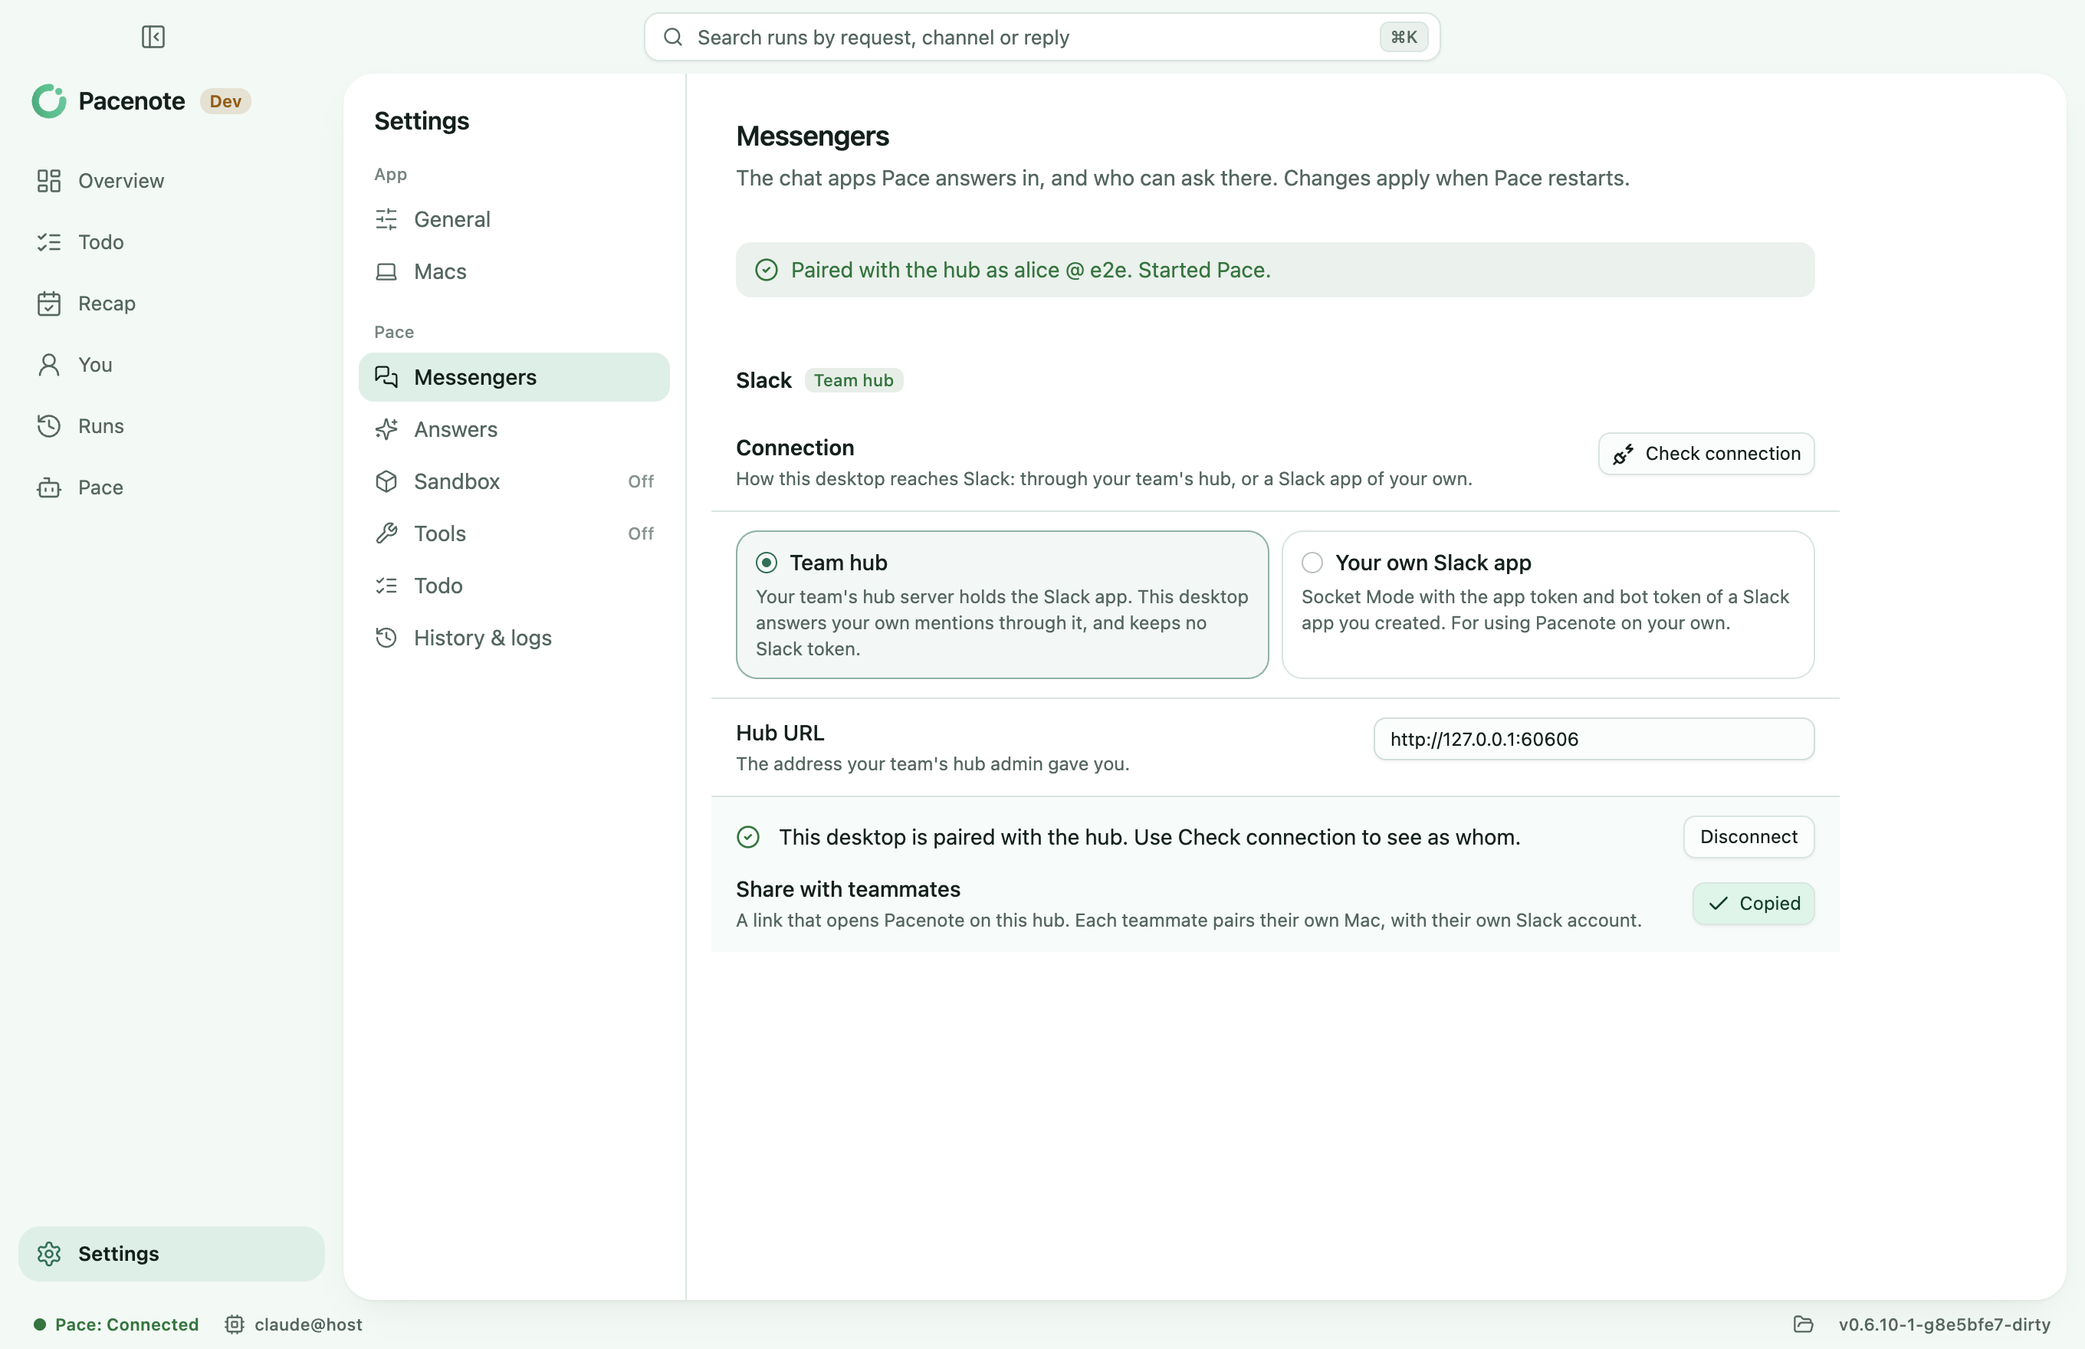
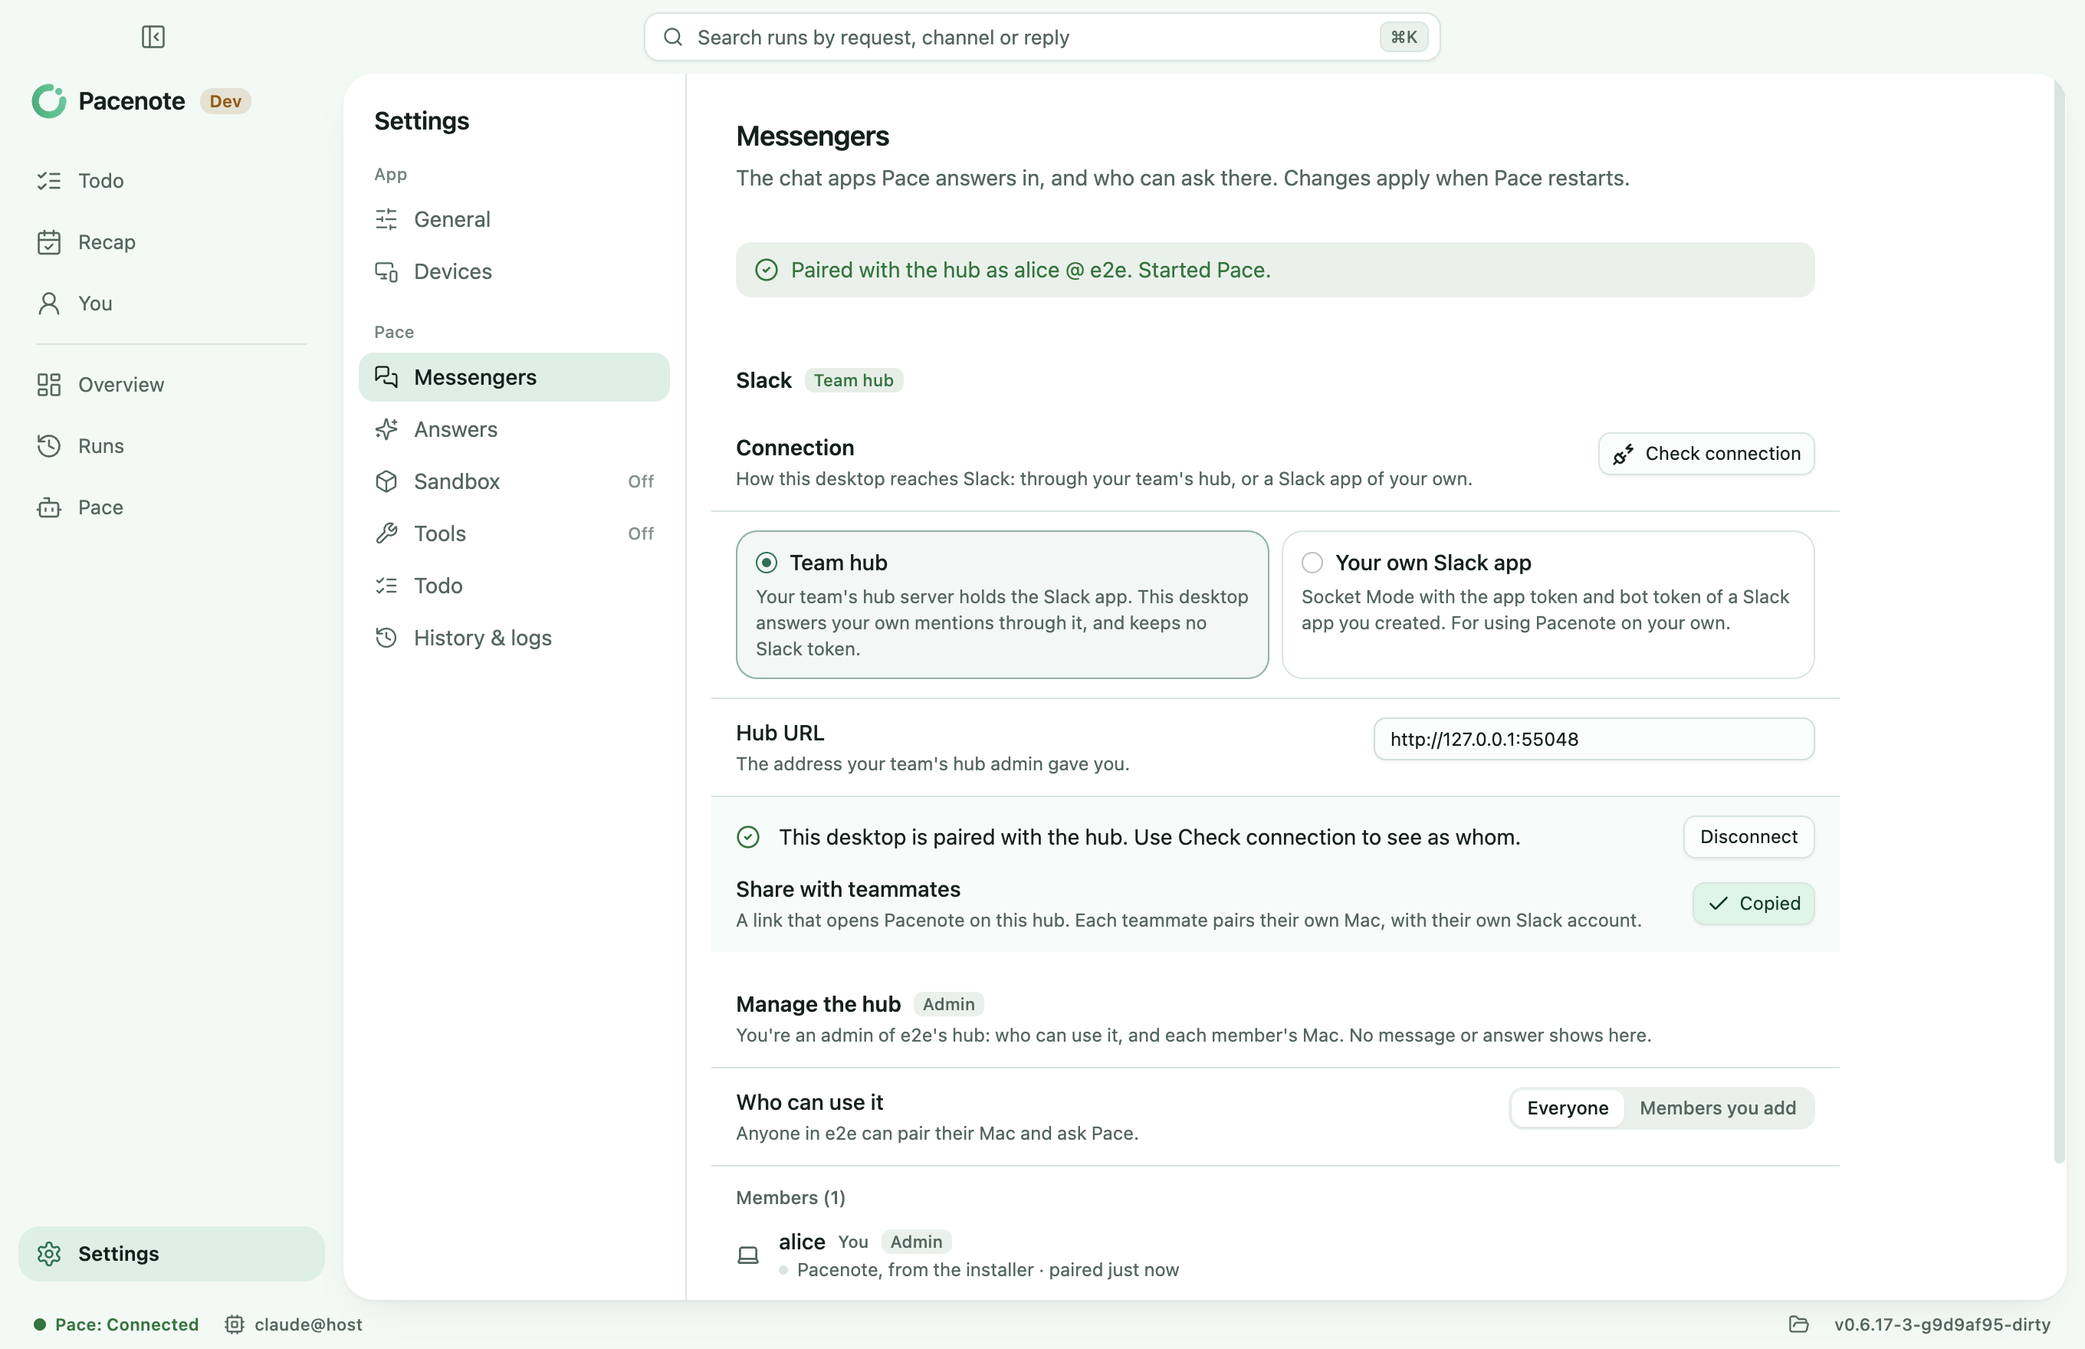
release: v0.6.18 - manage the team hub from Pacenote
- A team hub's admins manage it in Settings > Messengers: who can use it,
  who asks to join, each member's Mac, and who else is an admin
- A paired phone or tablet adds a task to the Mac's Todo, and the phone app
  shows Pace's spinner while it waits on the Mac
- The guide's Messengers and Join pages cover managing a hub and asking to
  join, with a new e2e shot in en and ko; siteShot takes a step that places
  the screen again in each language
- docs/team-hub.md says how to move a hub to a newer release
- The site test moves its news, rail, guide shot and home link expectations
  to v0.6.18

diff --git a/tests/site.test.ts b/tests/site.test.ts
@@ -62,6 +62,7 @@ const SITE = build('site', {
   'v0.6.15': '2026-10-29T07:00:00Z',
   'v0.6.16': '2026-10-30T03:00:00Z',
   'v0.6.17': '2026-11-02T03:00:00Z',
+  'v0.6.18': '2026-11-03T03:00:00Z',
 })
 
 const read = (page: string, site = SITE) =>
@@ -357,9 +358,11 @@ describe('the guide', () => {
       const shots = [
         ...read(`${dir}guide/messengers/`).matchAll(/src="([^"]*shots[^"]*)"/g),
       ].map(([, src]) => src)
-      expect(shots).toEqual([
-        `../../${dir ? '../' : ''}shots/${lang}/messengers-hub.png`,
-      ])
+      expect(shots).toEqual(
+        ['messengers-hub', 'hub-admin'].map(
+          (name) => `../../${dir ? '../' : ''}shots/${lang}/${name}.png`
+        )
+      )
     }
   })
 })
@@ -377,14 +380,15 @@ describe('the news', () => {
         '<a class="news-featured" href="macs-without-slack/" data-kind="post">'
       )
     expect(rows('news/').slice(0, 4)).toEqual([
+      'release v0.6.18/',
       'release v0.6.17/',
       'release v0.6.16/',
       'release v0.6.15/',
-      'release v0.6.14/',
     ])
     expect(rows('news/')).not.toContain('post macs-without-slack/')
     // Notes in Korean from v0.6.11; before, the English page, marked so
-    expect(rows('ko/news/').slice(0, 10)).toEqual([
+    expect(rows('ko/news/').slice(0, 11)).toEqual([
+      'release v0.6.18/',
       'release v0.6.17/',
       'release v0.6.16/',
       'release v0.6.15/',
@@ -397,11 +401,11 @@ describe('the news', () => {
       'release ../../news/v0.6.10/',
     ])
     expect(EVERY).toContain('ko/news/v0.6.11/')
-    expect(EVERY).toContain('ko/news/v0.6.17/')
+    expect(EVERY).toContain('ko/news/v0.6.18/')
     expect(read('ko/news/')).toContain('class="badge badge-lang"')
     expect(EVERY).not.toContain('ko/news/v0.6.10/')
     // A version not released has no notes yet
-    expect(EVERY).not.toContain('news/v0.6.18/')
+    expect(EVERY).not.toContain('news/v0.6.19/')
   })
 
   it('shows the latest news beside a news page, marking the one open', () => {
@@ -411,28 +415,21 @@ describe('the news', () => {
           /<a href="([^"]+)"( aria-current="page")?[^>]*>[^<]*<span class="news-nav-date">/g
         ),
       ].map(([, href, current]) => `${href}${current ? ' *' : ''}`)
-    expect(recent('news/v0.6.12/').slice(0, 8)).toEqual([
-      '../v0.6.17/',
+    // The newest eight, the one open among them
+    const rail = [
+      '../v0.6.18/',
+      './ *',
       '../v0.6.16/',
       '../v0.6.15/',
       '../v0.6.14/',
       '../macs-without-slack/',
       '../v0.6.13/',
       '../todo-comes-first/',
-      './ *',
-    ])
+    ]
+    expect(recent('news/v0.6.17/').slice(0, 8)).toEqual(rail)
     // The Korean rail, its latest eight as the English one (the Korean list
     // above has the English notes too)
-    expect(recent('ko/news/v0.6.12/')).toEqual([
-      '../v0.6.17/',
-      '../v0.6.16/',
-      '../v0.6.15/',
-      '../v0.6.14/',
-      '../macs-without-slack/',
-      '../v0.6.13/',
-      '../todo-comes-first/',
-      './ *',
-    ])
+    expect(recent('ko/news/v0.6.17/')).toEqual(rail)
   })
 
   it("points the home page's link at the latest news", () => {
@@ -442,9 +439,9 @@ describe('the news', () => {
           /<a class="release" id="release-link" href="([^"]+)">([^<]+)<\/a>/
         )!
         .slice(1)
-    // The latest news: v0.6.17's notes, newer than the last feature post
-    expect(link('')).toEqual(['news/v0.6.17/', "What's new in v0.6.17"])
-    expect(link('ko/')).toEqual(['news/v0.6.17/', 'v0.6.17에서 달라진 점'])
+    // The latest news: v0.6.18's notes, newer than the last feature post
+    expect(link('')).toEqual(['news/v0.6.18/', "What's new in v0.6.18"])
+    expect(link('ko/')).toEqual(['news/v0.6.18/', 'v0.6.18에서 달라진 점'])
   })
 
   it('keeps a feature post back until the version it comes with is out', () => {

diff --git a/tests/e2e/app.e2e.ts b/tests/e2e/app.e2e.ts
@@ -56,9 +56,10 @@ let app: ElectronApplication | undefined
 /**
  * A screen for pacenote.dev's guide and news (site/shots/<lang>/<name>.png),
  * in English and in Korean, when E2E_SITE_SHOTS=1 (pnpm site:shots). The app
- * goes back to the language it had.
+ * goes back to the language it had. place puts the screen where the picture
+ * looks, again in each language.
  */
-async function siteShot(page: Page, name: string) {
+async function siteShot(page: Page, name: string, place?: () => Promise<void>) {
   if (!process.env.E2E_SITE_SHOTS) return
   const language = async (preference: string, lang: string) => {
     await page.evaluate(
@@ -70,6 +71,7 @@ async function siteShot(page: Page, name: string) {
     await language(lang, lang)
     // The screen in its new words, settled
     await page.waitForTimeout(600)
+    await place?.()
     const file = path.join(REPO, 'site/shots', lang, `${name}.png`)
     mkdirSync(path.dirname(file), { recursive: true })
     await page.screenshot({ path: file })
@@ -625,6 +627,9 @@ describe.runIf(process.env.E2E_APP)('desktop app', () => {
     await page.screenshot({
       path: path.join(REPO, 'test-results/hub-admin-request.png'),
     })
+    await siteShot(page, 'hub-admin', () =>
+      manage.evaluate((card) => card.scrollIntoView({ block: 'start' }))
+    )
     await request.getByRole('button', { name: 'Add' }).click()
     await manage.locator('[data-hub-member="bob"]').waitFor()
     await eventually('the note that bob was added', () =>

diff --git a/docs/releases/ko/v0.6.18.md b/docs/releases/ko/v0.6.18.md
@@ -1,0 +1,34 @@
+Pacenote에서 팀 허브를 관리해요. 누가 쓸 수 있는지 정하고, 참여를 요청한 사람을 추가하고, 팀원마다의 Mac을 볼 수
+있어요. 허브의 관리자는 설정 > 메신저에서 찾을 수 있어요.
+
+```sh
+brew update && brew upgrade --cask pacenote
+```
+
+## 팀 허브
+
+- **허브 관리**: 설정 > 메신저의 허브 페어링 아래에서, 관리자는 허브에 누가 있는지와 팀원마다 Mac이 지금 연결되어
+  있는지, 마지막으로 언제 연결됐는지 볼 수 있어요. 다른 팀원에게는 새로 보이는 것이 없어요. 메시지와 답변은 여기에
+  보이지 않아요. 허브는 Pacenote에 누가 있는지와 그 사람들의 Mac만 알려 줘요.
+- **쓸 수 있는 사람**: 워크스페이스의 **모두**, 또는 **추가한 팀원만**. 추가한 팀원만으로 바꾸면 그때 페어링되어
+  있던 사람은 모두 목록에 남아서, 허브를 쓰던 사람이 끊기지 않아요.
+- **참여 요청**: 추가한 팀원만 쓰는 허브에서 다른 사람이 Pace를 멘션하면, 관리자에게 요청했다는 안내를 받고
+  **참여 요청**에서 기다려요. **추가**하면 들어오고 Slack으로 알림을 받아요. 보낸 페어링 코드가 아직 유효하면 그
+  사람의 Mac에서 확인으로 이어져요. **거절**하면 아무 알림도 가지 않아요.
+- **팀원 추가**로 워크스페이스에서 이름으로 사람을 찾아요. 팀원의 메뉴에는 **관리자로 지정**, **Mac 연결 해제**,
+  **허브에서 제거**가 있어요.
+- **관리자**: 허브를 설치한 팀원이 첫 관리자예요. 전부터 쓰던 허브라면 가장 먼저 페어링한 팀원이에요. hub.env의
+  `HUB_ADMINS`는 Pacenote에서 바꿀 수 없는 관리자를 정해요. `HUB_ALLOWED_USERS`는 이제 목록을 한 번 채우고, 그 뒤로는
+  관리자가 목록을 관리해요.
+
+## 내 기기
+
+- 아직 개발 중인 iPhone, iPad, Android 앱에서 Mac의 할 일에 할 일을 추가할 수 있어요. 할 일에는 그 기기에서
+  추가했다고 나와요.
+
+## 업그레이드
+
+- **허브 관리**를 보려면 허브를 업데이트하세요. 설치 명령의 URL과 `--version`을 0.6.18로 바꿔 다시 실행하거나,
+  `compose.yaml`의 이미지를 `pacenote-hub:0.6.18`로 바꾸고 `docker compose pull && docker compose up -d`를 실행해요.
+  0.6.18 전의 허브도 전처럼 동작하고, 업데이트하기 전까지 Pacenote에는 관리할 것이 보이지 않아요.
+- `HUB_ALLOWED_USERS`를 쓰던 허브는 그 팀원을 목록에 그대로 두고, 이제 데이터 폴더의 `access.json`에 보관해요.

diff --git a/docs/guide/ko/messengers.md b/docs/guide/ko/messengers.md
@@ -33,6 +33,26 @@ shot: messengers-hub
 설치하는 방법을 보여 줘요. 링크에는 비밀값이 없어요. 팀원마다 자기 Slack 계정으로 자기 Mac을 페어링하고, 연결하기
 전에는 팀원의 Mac에서 아무것도 바뀌지 않아요. 팀원이 할 일은 [팀 허브에 합류하기](guide:join-hub)에 있어요.
 
+## 허브 관리
+
+허브의 관리자에게는 페어링 아래에 **허브 관리**가 보이고, 다른 팀원에게는 더 보이는 것이 없어요. 허브를 설치한
+팀원이 첫 관리자예요. 0.6.18 전부터 쓰던 허브라면 가장 먼저 페어링한 팀원이에요.
+
+![허브 관리: 쓸 수 있는 사람, 참여 요청, 팀원마다의 Mac](shot:hub-admin)
+
+- **쓸 수 있는 사람**: 워크스페이스의 **모두**, 또는 **추가한 팀원만**. 추가한 팀원만으로 바꾸면 그때 페어링되어
+  있던 사람은 모두 목록에 남아서, 허브를 쓰던 사람이 끊기지 않아요.
+- **참여 요청**: 추가한 팀원만 쓰는 허브에서 다른 사람이 Pace를 멘션하면, 관리자에게 요청했다는 안내를 받고 여기서
+  기다려요. **추가**하면 들어오고 Slack으로 알림을 받아요. 그 사람이 보낸 페어링 코드가 아직 유효하면 그 사람의
+  Mac에서 확인으로 이어져요. **거절**하면 아무 알림도 가지 않아요.
+- **팀원 추가**로 워크스페이스에서 이름으로 사람을 찾아요.
+- 팀원마다 Mac이 지금 연결되어 있는지, 마지막으로 언제 연결됐는지 보여요. 팀원의 메뉴에는 **관리자로 지정**,
+  **Mac 연결 해제**, 그리고 추가한 팀원만 쓰는 허브에서는 **허브에서 제거**가 있어요.
+
+메시지와 답변은 여기에 보이지 않아요. 허브는 Pacenote에 누가 있는지와 그 사람들의 Mac만 알려 줘요. 0.6.18 전에
+설치한 허브는 0.6.18 이후로 업데이트해야 이 화면이 보여요. 업데이트 방법은 [Team hub](../../team-hub.md)(영어)에
+있어요.
+
 ## 허브가 없다면
 
 **허브가 없나요? Linux 서버에 설치하기**를 열고, 멤버가 쓸 주소와 쓸 수 있는 사람을 정한 뒤 명령을 복사해요.

diff --git a/docs/releases/v0.6.18.md b/docs/releases/v0.6.18.md
@@ -1,0 +1,34 @@
+Manage your team hub from Pacenote: choose who can use it, add the people who ask to join, and see each member's Mac.
+The hub's admins find it in Settings > Messengers.
+
+```sh
+brew update && brew upgrade --cask pacenote
+```
+
+## Team hub
+
+- **Manage the hub**: under the hub's pairing in Settings > Messengers, its admins see who is on the hub and whether
+  each member's Mac is connected now, or when it was last seen. Other members see nothing new. No message or answer
+  shows there: the hub tells Pacenote only who is on it and their Macs.
+- **Who can use it**: **Everyone** in the workspace, or **Members you add**. Switching to members you add keeps everyone
+  paired at the time on the list, so nobody using the hub is cut off.
+- **Asking to join**: on a hub for members you add, anyone else who mentions Pace is told that the admins were asked,
+  and waits under **Asking to join**. **Add** lets them in and tells them so in Slack; if the pairing code they sent is
+  still good, their Mac goes on to confirm it. **Decline** tells them nothing.
+- **Add a member** finds someone in the workspace by name. A member's menu has **Make admin**, **Disconnect their Mac**
+  and **Remove from the hub**.
+- **Admins**: the member who installed the hub is its first admin; on a hub from before, the member who paired first.
+  `HUB_ADMINS` in hub.env names admins Pacenote cannot change. `HUB_ALLOWED_USERS` now fills the list once, after which
+  admins keep it.
+
+## Your devices
+
+- The app for iPhone, iPad and Android, still in development, can add a task to your Mac's Todo. It shows there as
+  added on that device.
+
+## Upgrading
+
+- Update the hub to see **Manage the hub**: run its install command again with 0.6.18 in the URL and `--version`, or
+  set `pacenote-hub:0.6.18` in its `compose.yaml` and run `docker compose pull && docker compose up -d`. A hub before
+  0.6.18 keeps working as it did, and Pacenote shows nothing to manage until it is updated.
+- A hub with `HUB_ALLOWED_USERS` keeps those members on its list, now in `access.json` in its data folder.

diff --git a/docs/guide/en/messengers.md b/docs/guide/en/messengers.md
@@ -31,6 +31,25 @@ Once paired, **Copy share link** copies a link to pacenote.dev that opens Paceno
 it first. The link holds no secret: each teammate pairs their own Mac with their own Slack account, and nothing changes
 on their Mac until they connect. The steps for them are in [Join your team's hub](guide:join-hub).
 
+## Manage the hub
+
+The hub's admins see **Manage the hub** under the pairing; other members see nothing more. The member who installed the
+hub is its first admin, or on a hub from before 0.6.18, the member who paired first.
+
+![Manage the hub: who can use it, someone asking to join, and each member's Mac](shot:hub-admin)
+
+- **Who can use it**: **Everyone** in the workspace, or **Members you add**. Switching to members you add keeps everyone
+  paired at the time on the list, so nobody using the hub is cut off.
+- **Asking to join**: on a hub for members you add, anyone else who mentions Pace is told that the admins were asked,
+  and waits here. **Add** lets them in and tells them so in Slack; if they sent a pairing code that is still good, their
+  Mac goes on to confirm it. **Decline** tells them nothing.
+- **Add a member** finds someone in the workspace by name.
+- Each member's Mac shows whether it is connected now, or when it was last seen. A member's menu has **Make admin**,
+  **Disconnect their Mac** and, on a hub for members you add, **Remove from the hub**.
+
+No message or answer shows here: the hub tells Pacenote only who is on it and their Macs. A hub from before 0.6.18 shows
+this once it runs 0.6.18 or later; [Team hub](../../team-hub.md) says how to update it.
+
 ## No hub yet?
 
 Open **No hub yet? Install one on a Linux server**, give the address members will use and who can use it, and copy the

diff --git a/docs/guide/en/join-hub.md b/docs/guide/en/join-hub.md
@@ -14,7 +14,7 @@ your own login, from your Mac.
 - Pacenote on an Apple silicon Mac where Claude Code or Codex is signed in. New to it? Start with
   [From install to Pace's first answer](guide:install).
 - The link a teammate shared, or the hub's address.
-- If the hub lets only listed members use it, your Slack account on that list.
+- If the hub is only for members its admins add, an admin to add you. Mention Pace and the hub asks them for you.
 
 ## 1. Open the link
 
@@ -49,6 +49,11 @@ Connect again for a new one.
 
 A public address needs https. Plain http works only on your own network: a private address, or a name that exists only
 there.
+
+### Pace says it asked the hub's admins
+
+The hub is only for members its admins add. Once one adds you, Pace tells you so in the same place. If the code you
+sent is still good, Pacenote goes on to confirm it; otherwise connect again for a new one.
 
 ### The hub does not answer
 

diff --git a/docs/team-hub.md b/docs/team-hub.md
@@ -70,8 +70,10 @@ Installing it from Pacenote (on a Linux server with Docker):
    with no code to send in Slack. Otherwise (in setup, or with no member ID yet) it pairs with a code as usual once the
    hub answers.
 
-Running the same command again updates the hub: the tokens stay, the image follows the version. The command holds no
-secret, and the link only fills the address and asks before anything changes.
+Running the same command again updates the hub: the tokens stay, the image follows the version. For a newer release,
+put its version in the command's URL and `--version`, or change the image's version in `compose.yaml` and run
+`docker compose pull && docker compose up -d` in the hub's folder. The command holds no secret, and the link only fills
+the address and asks before anything changes.
 
 Running the hub by hand (on a server of its own, with Docker):
 
